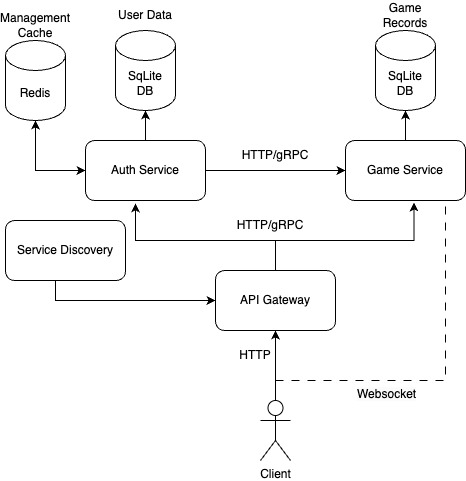
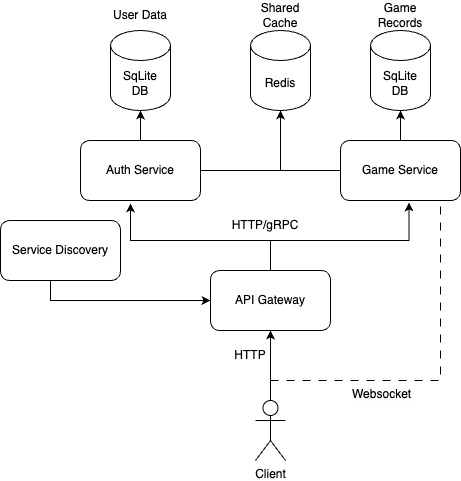
Update README and diagram

diff --git a/README.md b/README.md
@@ -73,9 +73,9 @@ And what if you need to update the game? Wouldn’t it be easier if you could fi
 
 ### Caching and Queues
 
-**Service A** uses a cache system to quickly retrieve frequently accessed data, such as player statistics and room status, which speeds up responses and reduces database load. This improves performance and handles high traffic more efficiently, ensuring a smoother user experience.
+Both Service A and Service B share a cache to quickly access player stats and room info. This keeps data consistent and speeds up responses.
 
-Additionally, queues help manage the flow of requests for room creation and matchmaking by temporarily storing them until they can be processed. This prevents overloading the system, improves scalability, and enhances responsiveness during peak demand (if there will ever be any for my poor app).
+Queues handle requests for creating rooms and matchmaking, preventing system overload and making the app run smoothly.
 
 ### Service A Endpoints
 
@@ -100,24 +100,110 @@ Additionally, queues help manage the flow of requests for room creation and matc
 
 ### Service B Endpoints
 
-- **POST /start-game**
-  - **Request**: `{ "roomId": "string", "number": "integer" }`
-  - **Response**: `{ "message": "Game started", "status": "waiting for guesses" }`
-- **POST /submit-guess**
-  - **Request**: `{ "roomId": "string", "guess": "integer" }`
-  - **Response**: `{ "result": "string", "feedback": "string" }`
-- **GET /game/{roomId}/state**
-  - **Request**: `{ "roomId": "string" }`
-  - **Response**: `{ "status": "string", "currentTurn": "string", "guesserAttempts": "integer" }`
-- **GET /leaderboard**
-  - **Response**: `{ "topPlayers": [{ "playerId": "string", "points": "integer" }] }`
+- **join**: Player requests to join a game room.
+
+  - **Request**:
+    ```json
+    {
+      "type": "join",
+      "payload": {
+        "player_name": "Andreea",
+        "room": "Room1"
+      }
+    }
+    ```
+  - **Response** (join_ack):
+    ```json
+    {
+      "type": "join_ack",
+      "payload": {
+        "message": "Welcome Andreea to Room1!",
+        "players": ["Andreea"]
+      }
+    }
+    ```
+
+- **send_number**: One player submits the secret number for the game.
+
+  - **Request**:
+    ```json
+    {
+      "type": "send_number",
+      "payload": {
+        "player_name": "Andreea",
+        "room": "0000",
+        "number": 42
+      }
+    }
+    ```
+  - **Response**:
+    ```json
+    {
+      "type": "send_number_ack",
+      "payload": {
+        "message": "Number has been submitted."
+      }
+    }
+    ```
+
+- **guess_number**: Anoter player submits a guess.
+
+  - **Request**:
+    ```json
+    {
+      "type": "guess_number",
+      "payload": {
+        "player_name": "John",
+        "room": "0000",
+        "guess": 35
+      }
+    }
+    ```
+
+- **guess_response**: Server responds to the guess with feedback.
+
+  - **Response**:
+    ```json
+    {
+      "type": "guess_response",
+      "payload": {
+        "message": "Too low! Try again.",
+        "correct": false,
+        "hint": "higher"
+      }
+    }
+    ```
+
+- **disconnect**: Player disconnects from the room.
+
+  - **Request**:
+    ```json
+    {
+      "type": "disconnect",
+      "payload": {
+        "player_name": "Andreea",
+        "room": "0000"
+      }
+    }
+    ```
+
+- **notification**: Server sends a message to all players about game events.
+  - **Response**:
+    ```json
+    {
+      "type": "notification",
+      "payload": {
+        "message": "Andreea has guessed the correct number!"
+      }
+    }
+    ```
 
 ## Deployment and Scaling
 
 ### Deployment
 
 - **Containers**: Docker to containerize services.
-- **Orchestration**: Kubernetes for managing container services, to ensure load balancing, automatic scaling.
+- **Orchestration**: Docker Compose for managing container services, to ensure load balancing, automatic scaling.
 
 ---
 
